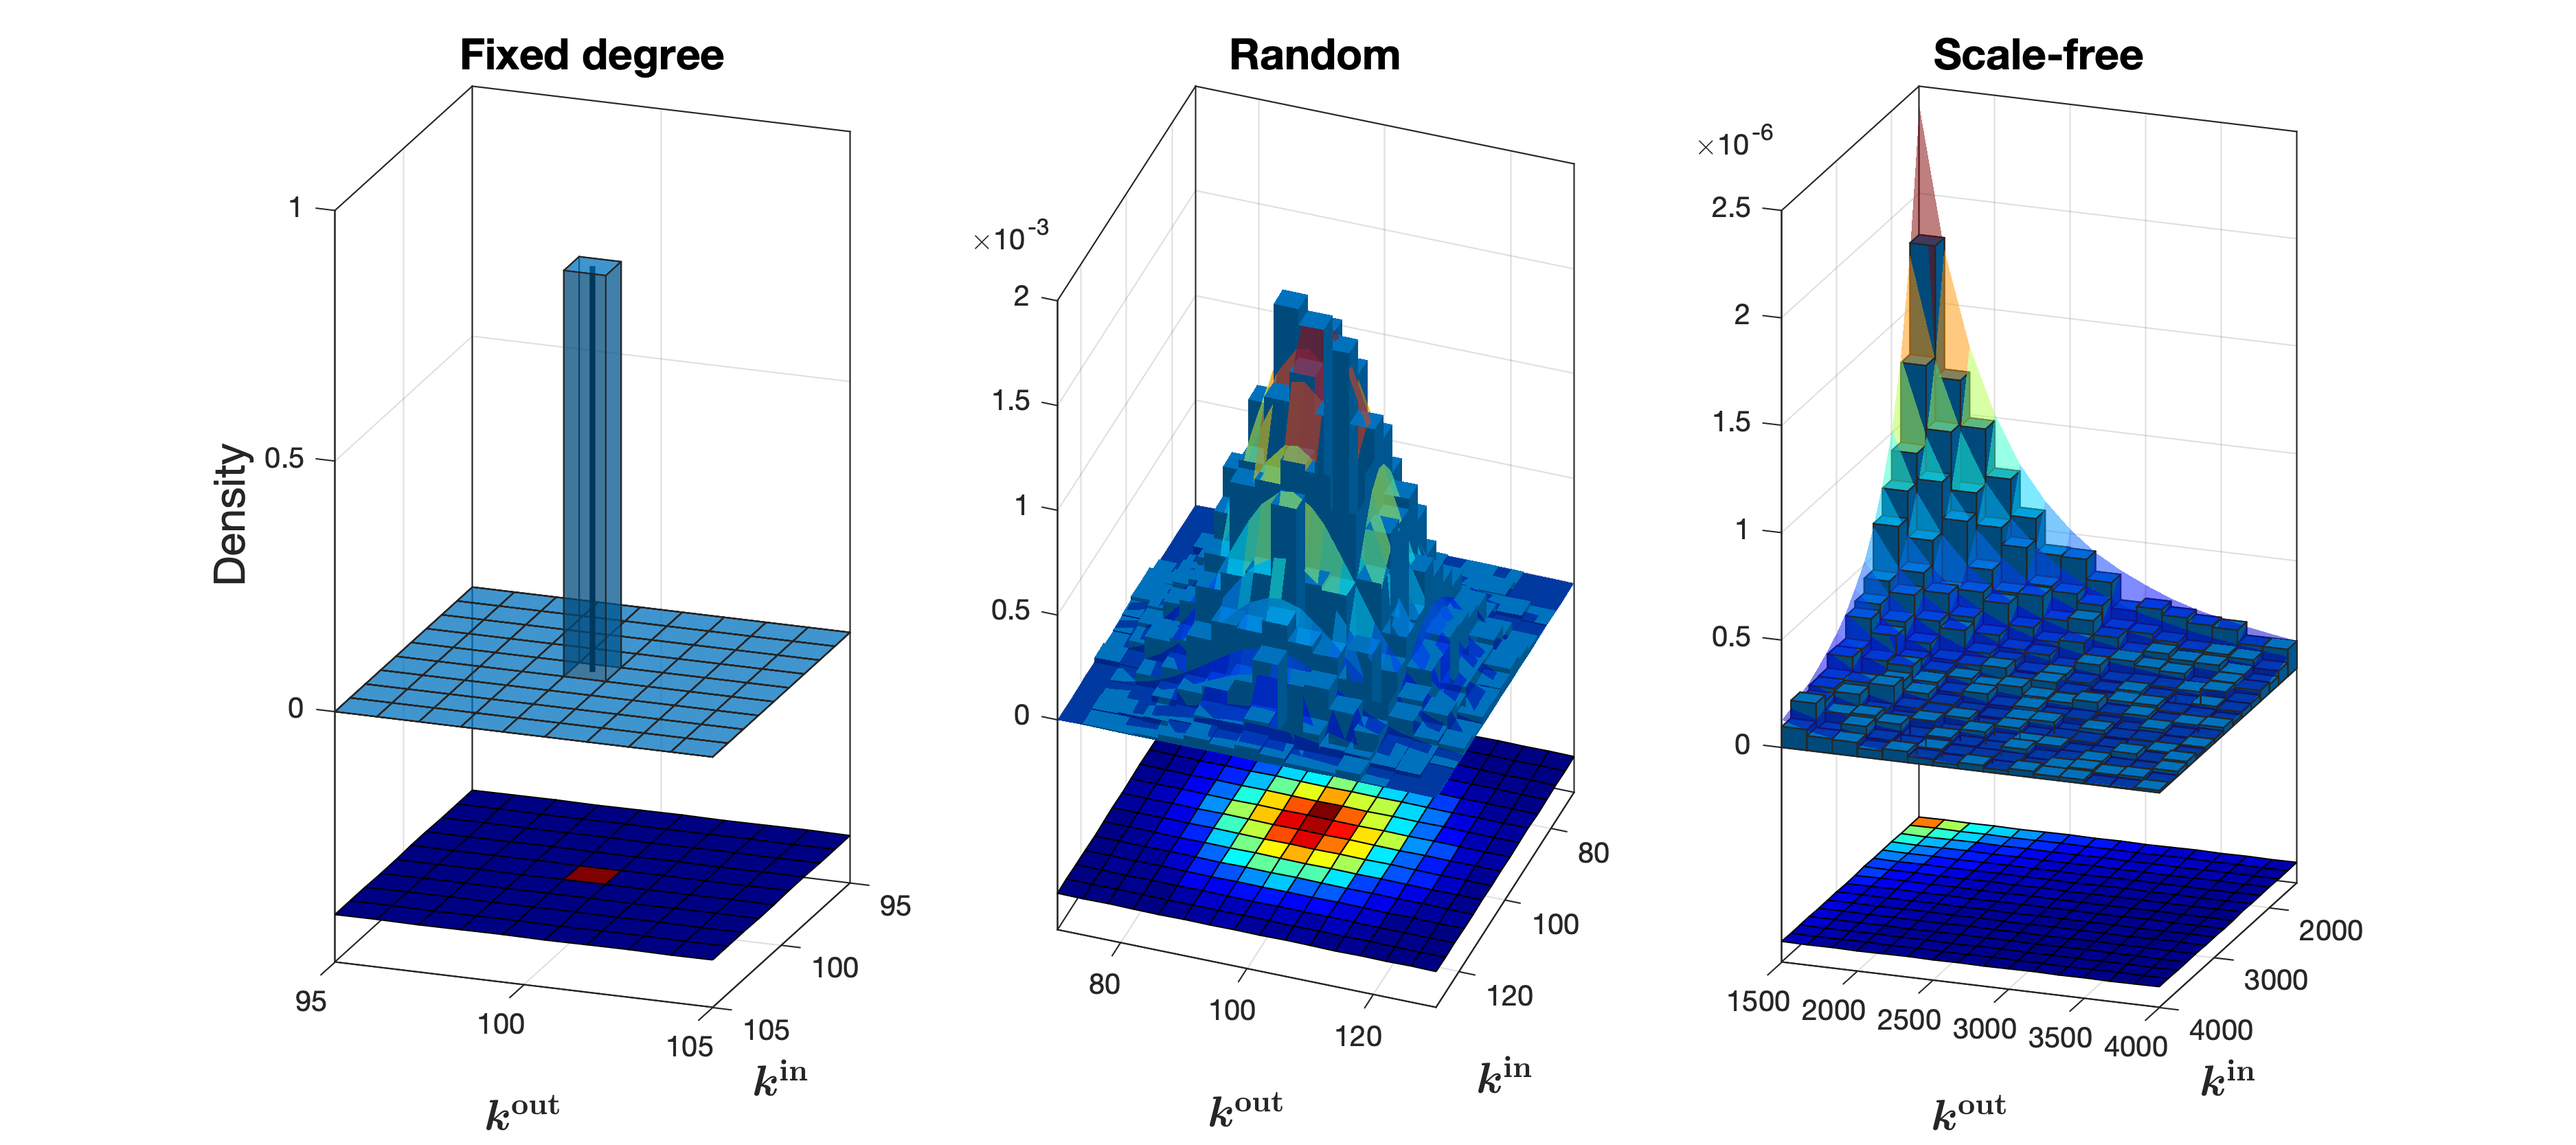
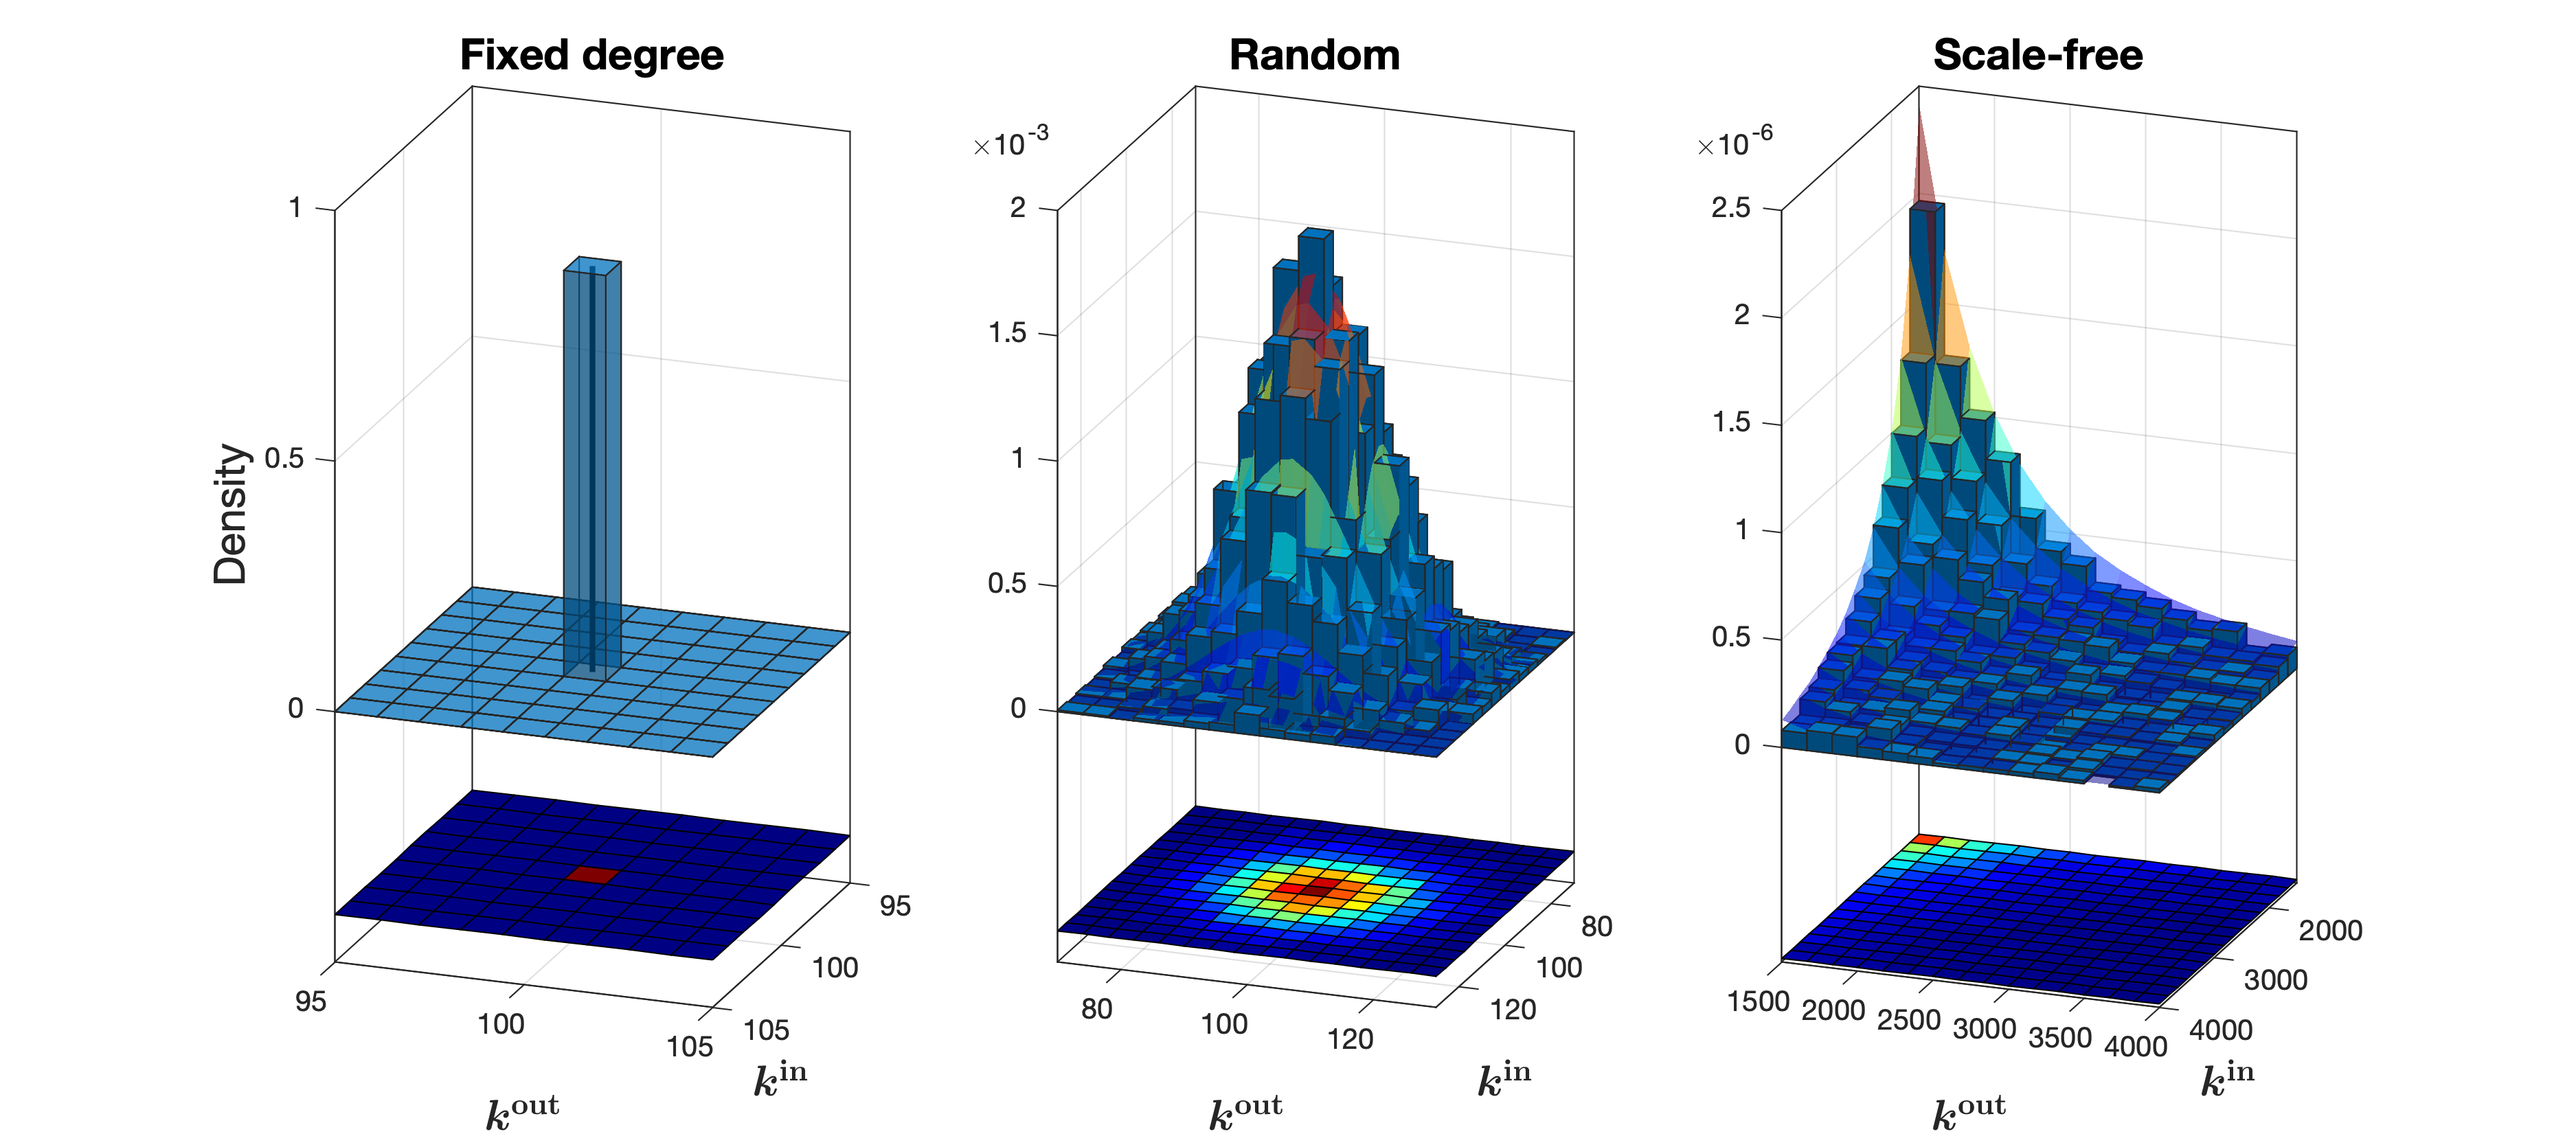
added plots for the discussion about the 2D plots

diff --git a/Tests/networkdistributions.m b/Tests/networkdistributions.m
@@ -166,13 +166,13 @@ title('Random', 'FontSize', titlefont);
 xlabel('\boldmath$k^{\rm in}$', 'Interpreter', 'latex', 'FontSize', labelfont);
 ylabel('\boldmath$k^{\rm out}$', 'Interpreter', 'latex', 'FontSize', labelfont);
 % zlabel('Density', 'FontSize', labelfont, 'HorizontalAlignment', 'left');
-view(110, 20)
+view(110, 10)
 
 % The 3D histogram
 minmax = linspace(randompars.meandegree - 3*sqrt(randompars.meandegree), randompars.meandegree + 3*sqrt(randompars.meandegree), 16);
 xlim([minmax(1), minmax(end)])
 ylim([minmax(1), minmax(end)])
-hist = histogram2(randompars.degrees_i, randompars.degrees_o, minmax, minmax, 'Normalization', 'pdf','EdgeColor','none','FaceAlpha',1,'ShowEmptyBins','on'); % Normal degree vectors from before
+hist = histogram2(randompars.degrees_i, randompars.degrees_o, minmax, minmax, 'Normalization', 'pdf','FaceAlpha',1,'ShowEmptyBins','on'); % Normal degree vectors from before
 colormap(jet)
 
 % The pdf
